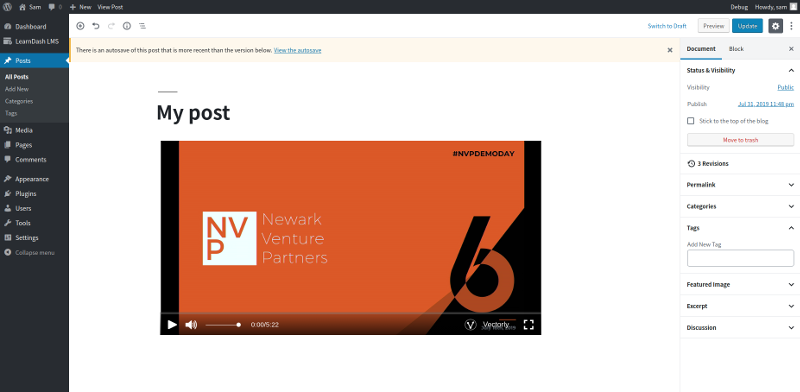
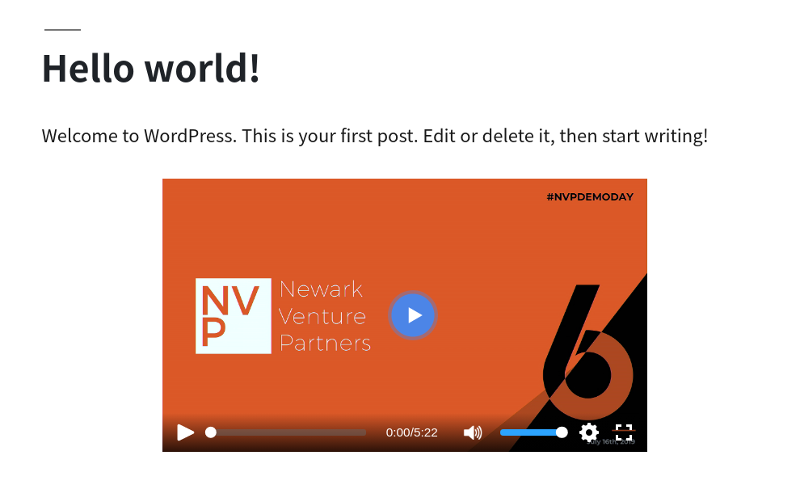
Added wordpress plugin tutorial

diff --git a/docs/playing.md b/docs/playing.md
@@ -433,24 +433,17 @@ If you use another platform and need help integrating our videos, please reach o
 
 ### Wordpress
 
-It is extremely easy to use Vectorly's videos in Wordpress or Wordpress based systems (like LearnDash)
+It is extremely easy to use Vectorly's videos in Wordpress or Wordpress based systems (like LearnDash).
 
-You would need to install Vectorly's plugin for Wordpress (in beta). Once installed, you can put Vectorly videos in your posts, pages or lessons the same way you would put in YouTube or Vimeo videos.
+You can install Vectorly's wordpress plugin [here](https://cdn-dotlearn-io.s3-eu-west-1.amazonaws.com/wordpress/vectorly.zip)
 
-Just copy the preview link for the video in Vectorly's Dashboard
+When the plugin is installed, you can then put Vectorly urls directly into the the embed block in wordpress
 
-![Embed input block](img/preview-link.png)
+![Embed Block](img/gutenberg-embed-block-add-url.png)
 
-And paste the link into the "Embed" or "Video" block in wordpress
+As soon as you paste a vectorly link into the embed block, your video should appear
 
-![Embed input block](img/gutenberg-video-block-add-url.jpg)
-
-If you have the wordpress plugin installed properly, you will see the video appear
-
-![Embed input block](img/wordpress-2.png)
-
-
-You can see the  [Wordpress docs](https://gogutenberg.com/blocks/video/)  for more info on embedding video content into your Wordpress site.
+![Embed Block](img/wordpress-2.png)
 
 
 ### Moodle
